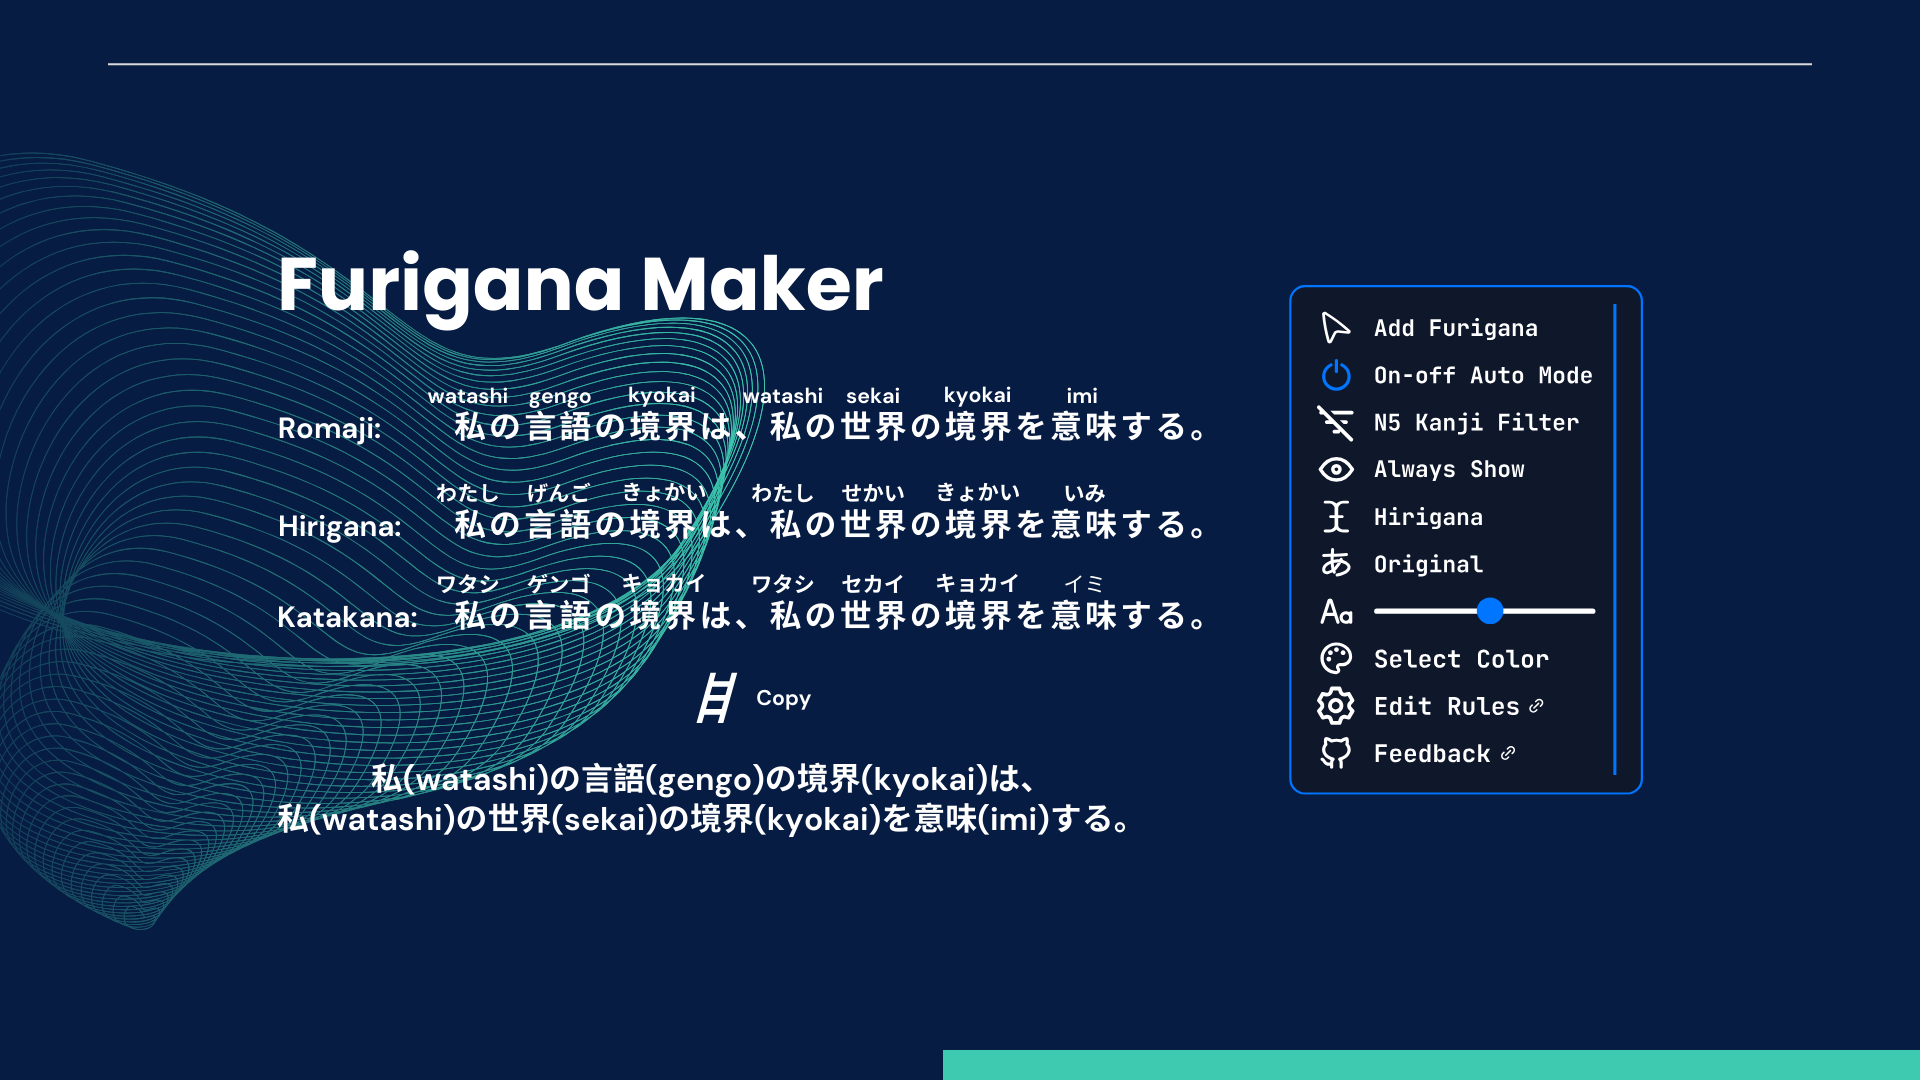
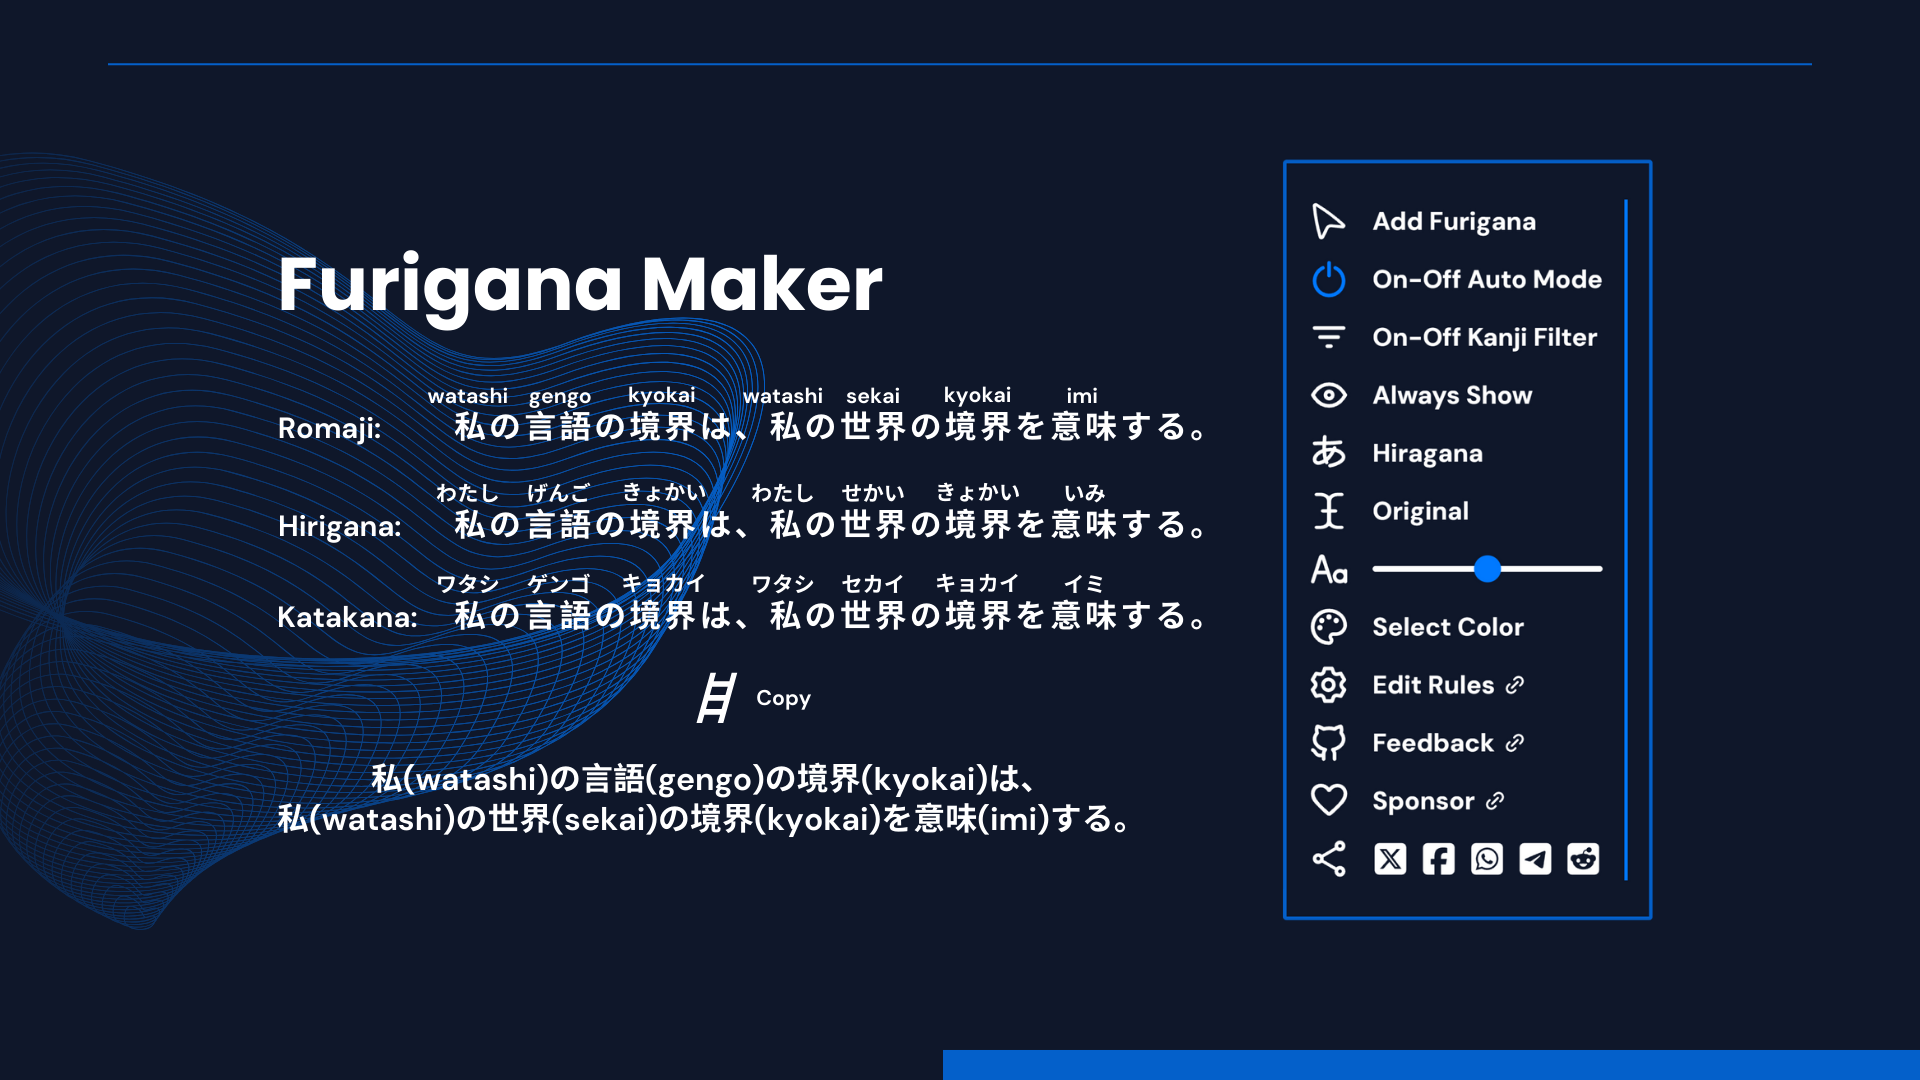
chore: dump deps

diff --git a/README.md b/README.md
@@ -15,7 +15,7 @@
 
 # Furigana Maker
 
-Add furigana to Japanese text for any web page. 🤔
+Add furigana to Japanese text on any page for learning kanji pronunciation. 🤔
 
 Special thanks to **_[plasmo](https://github.com/PlasmoHQ/plasmo)_** for taking the frustration out of browser extension development for me.
 
@@ -23,13 +23,12 @@ Special thanks to **_[plasmo](https://github.com/PlasmoHQ/plasmo)_** for taking 
 
 ## Features
 
-- Many common Japanese websites are supported by default.
-- Local Japanese kanji parsing engine (no network required).
-- Add furigana to any regions on the page.
-- Freely modify the font size and color of furigana.
-- Optionally show furigana only on hover state.
-- N5 Kanji filter for JLPT learners.
-- Configurable default pages and regions for adding furigana.
+- By default, furigana is automatically added to many [common Japanese websites](https://github.com/aiktb/FuriganaMaker/blob/main/assets/rules/selector.json).
+- The list of rules used by Auto Mode can be customized using CSS selectors and domains.
+- Users can use their mouse to select areas on any web page to add furigana to.
+- N5 kanji filter prepared for JLPT learners, these kanji will not be added furigana.
+- The font size and color of furigana can be freely modified, and toggle the display of furigana.
+- Optional support for hover mode, only showing furigana when mouseover kanji.
 
 ## Contribution
 
